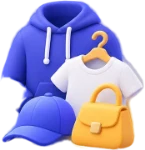
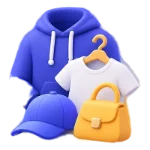
Do'kon papkasi ikonkalarining og'irligi tenglashtirildi
Oltita ikonka turli nisbatda (krossovka keng, atir tor), shuning uchun
bir xil kvadrat qutida `object-fit:contain` bilan chizilganda biri
kichik, biri katta ko'rinardi: ekranda egallagan yuza -15% dan +11%
gacha farq qilardi — krossovka eng kichik, kapyushon va telefon eng
katta bo'lib ko'zga tashlanardi.

Endi har biri bir xil kvadrat kanvasga, ekranda egallaydigan yuzasi
teng bo'ladigan qilib joylandi. Farq -5% .. +3% ga tushdi. To'liq
tenglashtirish sun'iy chiqqani uchun (keng buyum juda baland bo'lib
ketadi) tuzatish 70% ga yumshatilgan.

- tools/balance-icons.py — hisobni takrorlash uchun.
- icons/src/raw-*.png — kesib olingan asl nusxalar ham saqlandi, shunda
  kelgusida qayta hisoblash mumkin.

Claude-Session: https://claude.ai/code/session_013YY2HjPmapjsnxB9N1S87s

diff --git a/sw.js b/sw.js
@@ -8,7 +8,7 @@
  *     qat'i nazar saqlanadigan keshda qoladi.
  *   - Valyuta kursi kabi API so'rovlari keshlanmaydi.
  */
-const VERSION = 'ca11541d285e';
+const VERSION = 'a82c6f227519';
 const CACHE = 'xarid-' + VERSION;
 /* Logotiplar keshi ilova versiyasiga bog'lanmaydi: yangilanish chiqqanda
    ular qaytadan yuklanmaydi. */

diff --git a/tools/balance-icons.py b/tools/balance-icons.py
@@ -1,0 +1,45 @@
+"""Oltita ikonkaning "optik og'irligi"ni tenglashtiradi.
+
+Ular turli nisbatda (krossovka keng, atir tor), shuning uchun bir xil
+kvadrat qutida `object-fit:contain` bilan chizilganda biri kichik, biri
+katta ko'rinadi. Bu yerda har biri kvadrat kanvasga shunday joylanadiki,
+ekranda egallaydigan yuzasi bir-biriga yaqin bo'lsin. To'liq tenglashtirish
+sun'iy chiqadi (keng buyum juda baland bo'lib ketadi), shuning uchun
+tuzatish 70% ga yumshatiladi.
+"""
+import os
+import numpy as np
+from PIL import Image
+
+N = ['universal','moda','poyabzal','elektronika','kosmetika','bolalar']
+# Manba: shaffof fonli PNG lar (kesib olingan asl nusxalar).
+SRC = os.environ.get('DOK_SRC', 'icons/src/raw-%s.png')
+C   = 400          # kvadrat kanvas
+FIT = 0.90         # kattalashtirish uchun joy qoldiramiz
+SOFT = 0.70        # tuzatishning qanchasi qo'llanadi
+
+ims, areas, fits = [], [], []
+for n in N:
+    im = Image.open(SRC % n).convert('RGBA')
+    a = np.asarray(im).astype(np.float32)[:,:,3] / 255.0
+    s = (C * FIT) / max(im.size)
+    ims.append(im); areas.append(a.sum() * s * s); fits.append(s)
+
+mean = sum(areas) / len(areas)
+ks = []
+for im, ar, s in zip(ims, areas, fits):
+    c = 1 + SOFT * ((mean / ar) ** 0.5 - 1)
+    ks.append(s * c)
+# Nisbatlarni saqlagan holda hammasini birdek kattalashtiramiz, shunda eng
+# kattasi kanvasni to'liq egallaydi — bo'sh joy behuda ketmasin.
+grow = C / max(k * max(im.size) for k, im in zip(ks, ims))
+ks = [k * grow for k in ks]
+
+print(f"{'ikonka':13} {'tuzatish':>9} {'yakuniy':>12}")
+for n, im, ar, s, k in zip(N, ims, areas, fits, ks):
+    c = k / s
+    w, h = round(im.width * k), round(im.height * k)
+    out = Image.new('RGBA', (C, C), (0,0,0,0))
+    out.paste(im.resize((w, h), Image.LANCZOS), ((C-w)//2, (C-h)//2))
+    out.save(f'icons/src/dok-{n}.webp', 'WEBP', quality=95, method=6)
+    print(f'{n:13} {c:8.3f}x {w:5}x{h:<5}')
